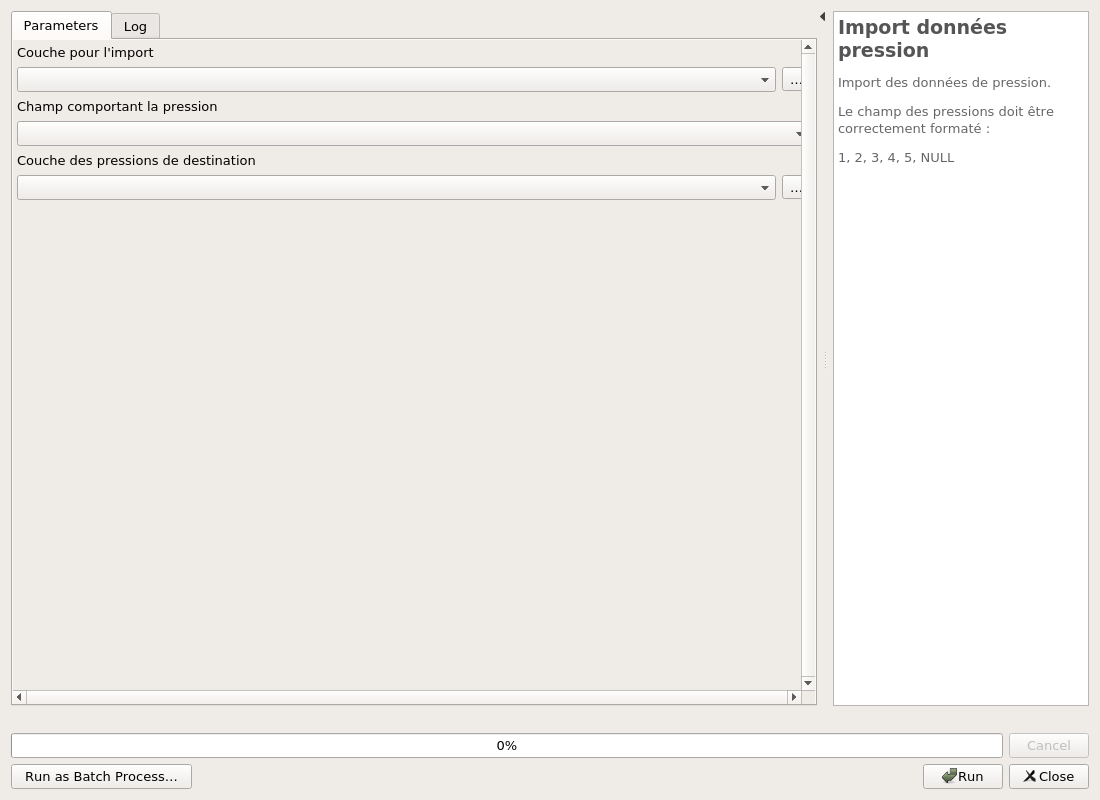
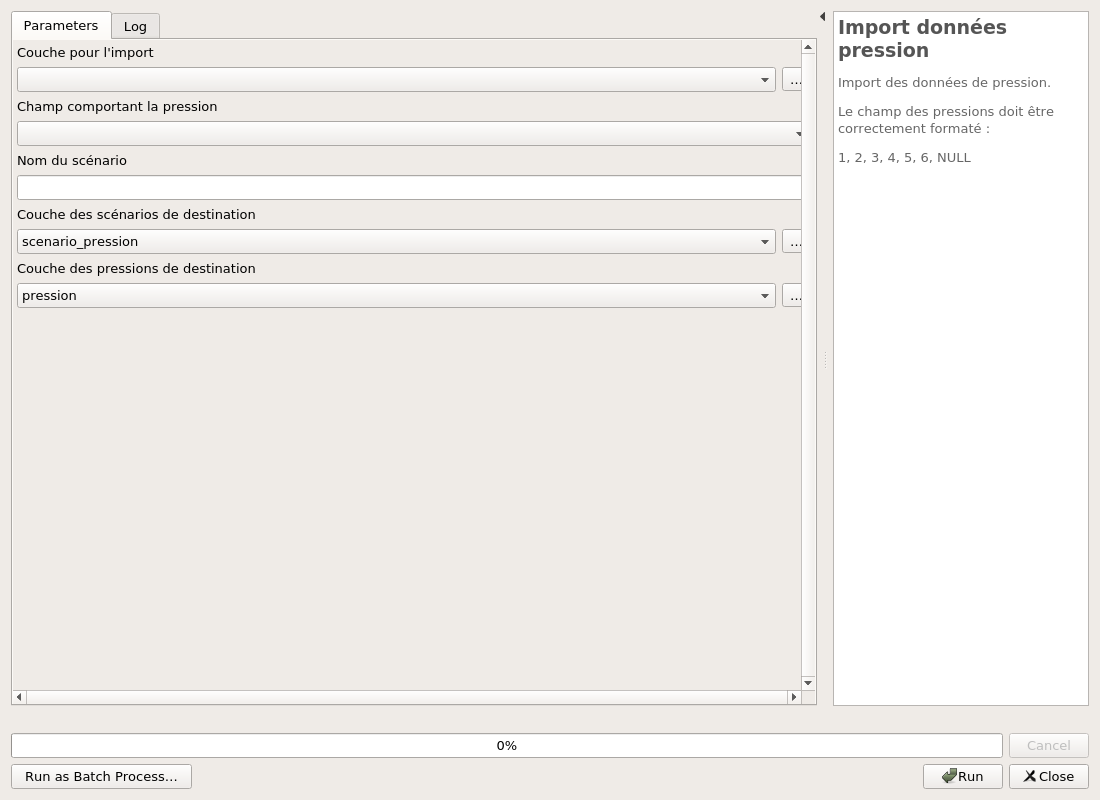
Update the processing documentation

Changed region(s): [[0.0, 0.25, 0.2473, 0.375], [0.0, 0.1875, 0.2164, 0.2188], [0.8345, 0.1875, 0.8655, 0.2188]]

diff --git a/docs/processing/README.md b/docs/processing/README.md
@@ -5,6 +5,33 @@ hide:
 
 # Processing
 
+## Calcul
+
+
+### Calcul des notes MERCI-Cor
+
+Calcul des notes MERCI-Cor à partir des indicateurs MERCI-Cor
+
+![algo_id](./mercicor-calcul_notes.png)
+
+#### Parameters
+
+| ID | Description | Type | Info | Required | Advanced | Option |
+|:-:|:-:|:-:|:-:|:-:|:-:|:-:|
+INPUT|Input layer|FeatureSource||✓|||
+OUTPUT|output|FeatureSink||✓||Type: TypeVector <br>|
+
+
+#### Outputs
+
+| ID | Description | Type | Info |
+|:-:|:-:|:-:|:-:|
+OUTPUT|output|VectorLayer||
+
+
+***
+
+
 ## Administration
 
 
@@ -53,6 +80,7 @@ PRESSURE_LIST_LAYER|Liste des types de pression|VectorLayer||✓||Default: liste
 OBSERVATIONS_LAYER|Couches des observations|VectorLayer||✓||Default: observations <br> Type: TypeVectorPoint <br>|
 HABITAT_ETAT_ECOLOGIQUE_LAYER|Table des observations ramenées à l'habitat|VectorLayer||✓||Default: habitat_etat_ecologique <br> Type: TypeVectorPolygon <br>|
 SCENARIO_PRESSION|Couche des scénario de pression|VectorLayer||✓||Default: scenario_pression <br> Type: TypeVectorPolygon <br>|
+HABITAT_PRESSION_ETAT_ECOLOGIQUE|Couche du résultat de l'intersection entre les pressions et les habitats.|VectorLayer||✓||Default: habitat_pression_etat_ecologique <br> Type: TypeVectorPolygon <br>|
 
 
 #### Outputs
@@ -61,6 +89,34 @@ SCENARIO_PRESSION|Couche des scénario de pression|VectorLayer||✓||Default: sc
 |:-:|:-:|:-:|:-:|
 RELATIONS_ADDED|Nombre de relations chargés|Number||
 QML_LOADED|Nombre de QML chargés|Number||
+
+
+***
+
+
+## Export
+
+
+### Télécharger le modèle des observations
+
+Télécharger le modèle de fichier tableur pour les observations.
+
+![algo_id](./mercicor-download_observation_file.png)
+
+#### Parameters
+
+| ID | Description | Type | Info | Required | Advanced | Option |
+|:-:|:-:|:-:|:-:|:-:|:-:|:-:|
+INPUT_LAYER|Couche des observations dans le geopackage|VectorLayer|Couche des observations dans le geopackage|✓||Default: observations <br> Type: TypeVectorPoint <br>|
+INCLUDE_X_Y|Inclure des colonnes avec latitude/longitude|Boolean|Inclure des colonnes avec latitude/longitude|✓||Default: True <br> |
+DESTINATION_FILE|Fichier tableur de destination|FileDestination|Fichier tableur de destination|✓|||
+
+
+#### Outputs
+
+| ID | Description | Type | Info |
+|:-:|:-:|:-:|:-:|
+DESTINATION_FILE|Fichier tableur de destination|File||
 
 
 ***
@@ -99,7 +155,7 @@ No output
 Import des données de pression.
 
 Le champ des pressions doit être correctement formaté : 
-1, 2, 3, 4, 5, NULL
+1, 2, 3, 4, 5, 6, NULL
 
 ![algo_id](./mercicor-import_donnees_pression.png)
 
@@ -109,7 +165,9 @@ Le champ des pressions doit être correctement formaté :
 |:-:|:-:|:-:|:-:|:-:|:-:|:-:|
 INPUT_LAYER|Couche pour l'import|VectorLayer||✓||Type: TypeVectorPolygon <br>|
 PRESSURE_FIELD|Champ comportant la pression|Field||✓|||
-OUTPUT_LAYER|Couche des pressions de destination|VectorLayer||✓||Type: TypeVectorPolygon <br>|
+SCENARIO_NAME|Nom du scénario|String|Le nom du scénario en cours pour cette couche des pressions.|✓|||
+SCENARIO_LAYER|Couche des scénarios de destination|VectorLayer|La couche de destination des scénarios doit être la couche qui est dans le geopackage.|✓||Default: scenario_pression <br> Type: TypeVector <br>|
+OUTPUT_LAYER|Couche des pressions de destination|VectorLayer||✓||Default: pression <br> Type: TypeVectorPolygon <br>|
 
 
 #### Outputs
